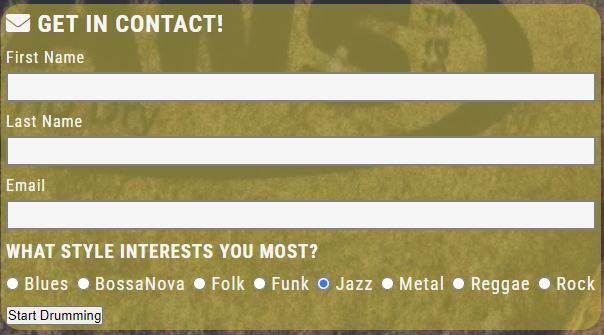
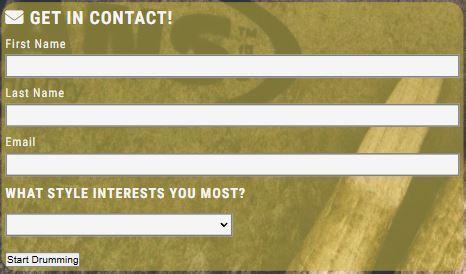
Change form image in readme-images to reflect updated dropdown

diff --git a/README.md b/README.md
@@ -64,7 +64,7 @@ The background is split between screen sizes.  An image of an orange drum kit is
 ![Background image above 768px](../CPS/assets/readme-images/Drum%20Classes%20-%20Larger%20Screens.JPG)
 
 ## The Contact Page
-The Contact page encourages users to get in touch with the school and to choose their preferred drum style for specialisation.  These are listed as radio buttons on the form.
+The Contact page encourages users to get in touch with the school and to choose their preferred drum style for specialisation.  The user is required to select a style from a dropdown list.  
 
 ![User contact form](../CPS/assets/readme-images/Form.JPG)
 
